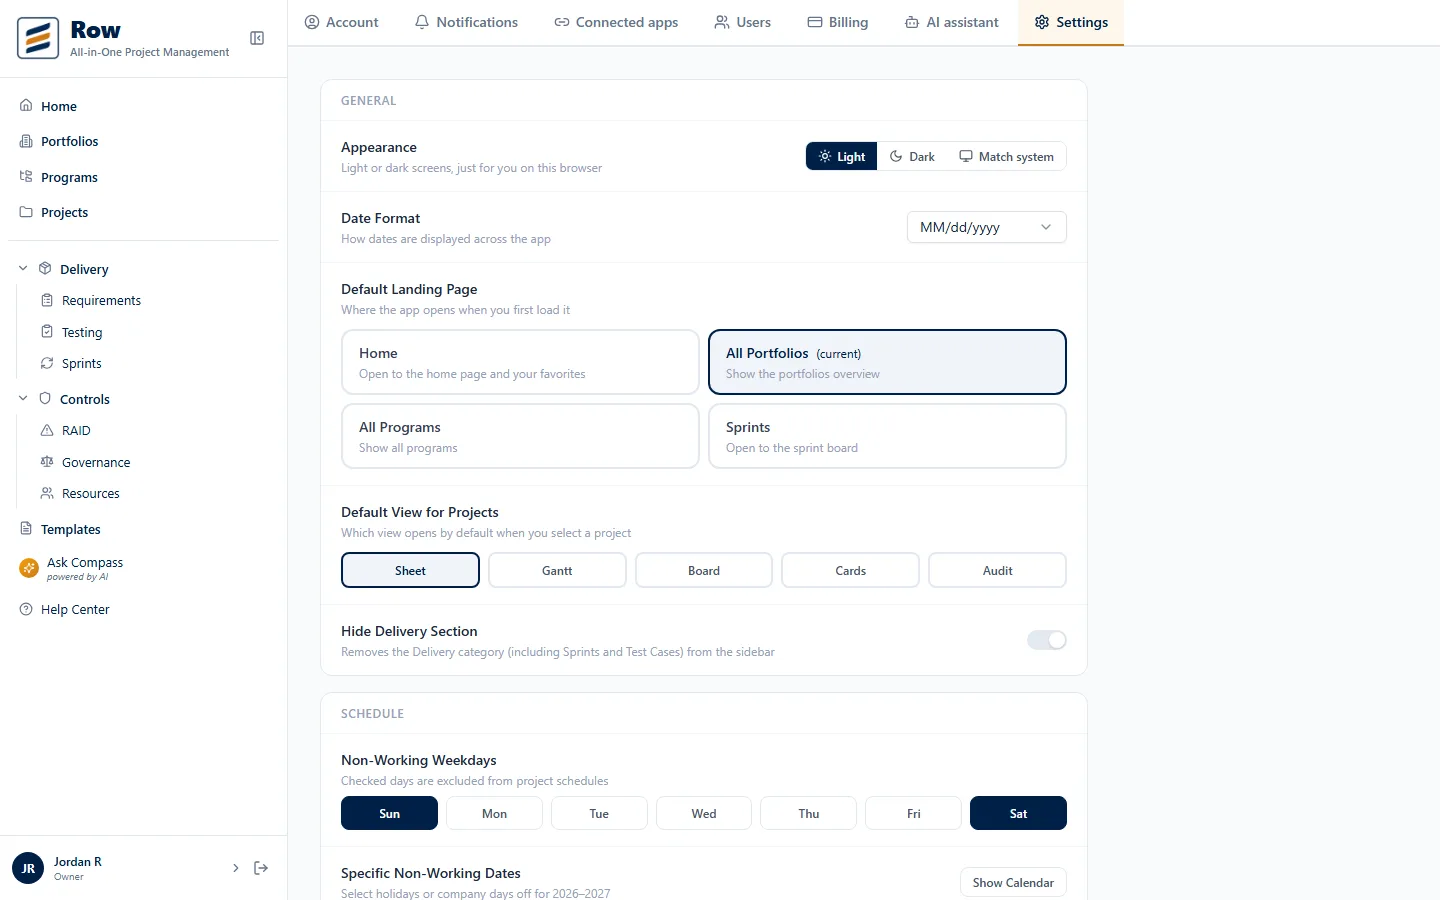
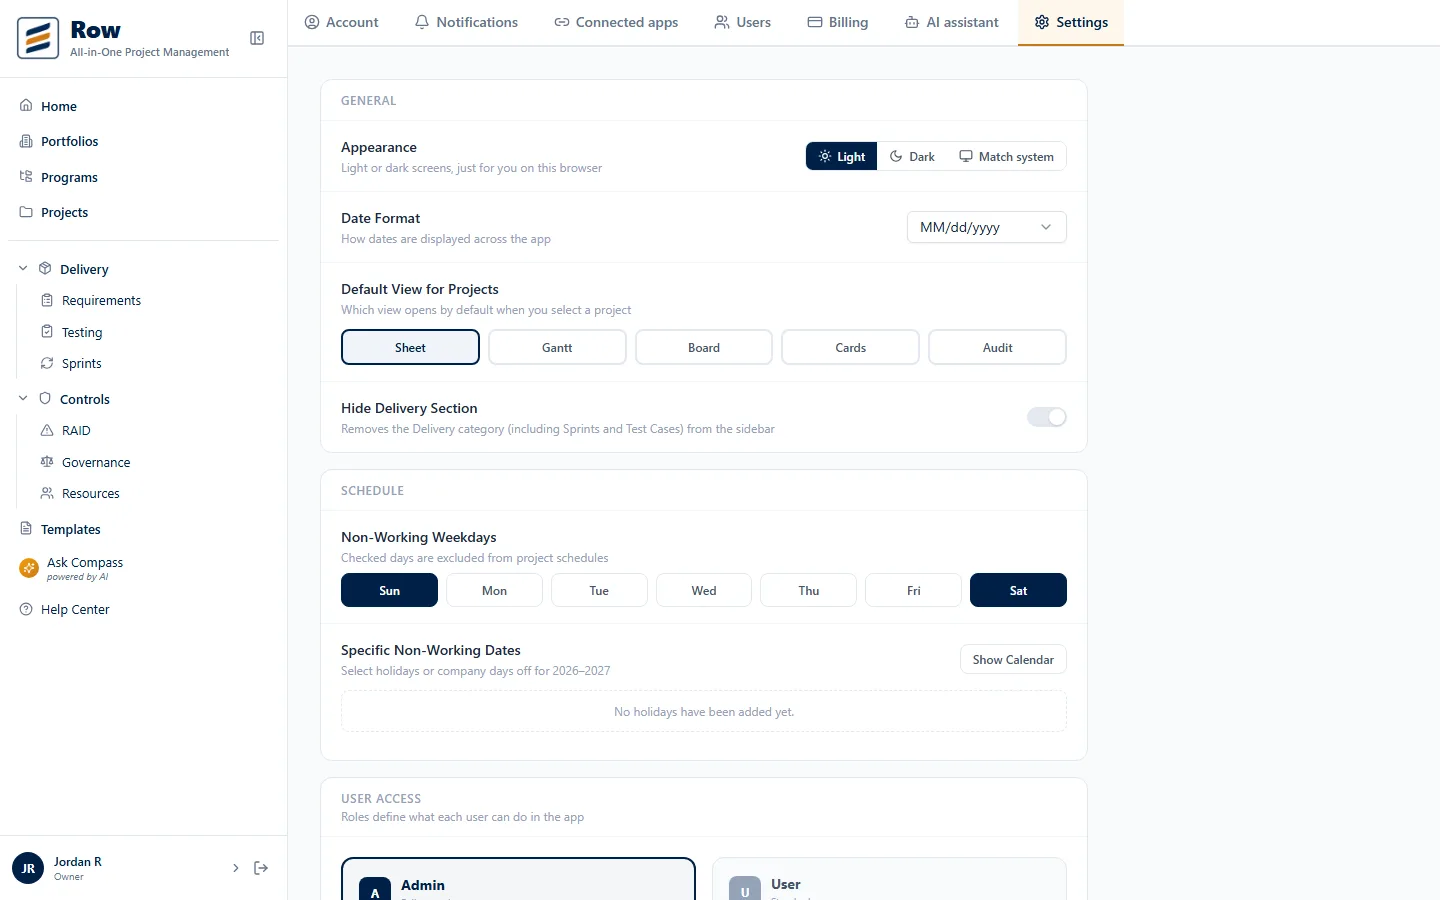
Updates

diff --git a/src/components/projects/SettingsContent.jsx b/src/components/projects/SettingsContent.jsx
@@ -12,13 +12,6 @@ import { X, Plus, ChevronDown, ChevronRight, AlertCircle, Loader2, Sun, Moon, Mo
 
 const DAYS = [{ v: 0, l: 'Sun' }, { v: 1, l: 'Mon' }, { v: 2, l: 'Tue' }, { v: 3, l: 'Wed' }, { v: 4, l: 'Thu' }, { v: 5, l: 'Fri' }, { v: 6, l: 'Sat' }];
 
-const LANDING_OPTIONS = [
-  { value: 'favorites', label: 'Home', description: 'Open to the home page and your favorites' },
-  { value: 'all_portfolios', label: 'All Portfolios', description: 'Show the portfolios overview' },
-  { value: 'all_programs', label: 'All Programs', description: 'Show all programs' },
-  { value: 'sprints', label: 'Sprints', description: 'Open to the sprint board' },
-];
-
 const DEFAULT_TASK_VIEW_OPTIONS = [
   { value: 'sheet', label: 'Sheet' },
   { value: 'gantt', label: 'Gantt' },
@@ -349,7 +342,6 @@ export default function SettingsContent() {
     try { return JSON.parse(localStorage.getItem('app_nonworking_days') || '[0,6]'); } catch { return [0, 6]; }
   });
   const [hideDelivery, setHideDelivery] = useState(localStorage.getItem('app_hide_delivery') === 'true');
-  const [landingPage, setLandingPage] = useState(localStorage.getItem('app_landing_page') || 'all_portfolios');
   const [defaultTaskView, setDefaultTaskView] = useState(localStorage.getItem('app_default_task_view') || 'sheet');
   const [mutationError, setMutationError] = useState('');
   const [holidayMutationError, setHolidayMutationError] = useState('');
@@ -400,7 +392,6 @@ export default function SettingsContent() {
   useEffect(() => {
     if (!accountSettings || Object.keys(accountSettings).length === 0) return;
     if (accountSettings.date_format !== undefined) setDateFormat(accountSettings.date_format);
-    if (accountSettings.default_landing_page !== undefined) setLandingPage(accountSettings.default_landing_page);
     if (accountSettings.hide_delivery_section !== undefined) setHideDelivery(Boolean(accountSettings.hide_delivery_section));
   }, [accountSettings]);
 
@@ -410,7 +401,6 @@ export default function SettingsContent() {
       setMutationError('');
       queryClient.invalidateQueries({ queryKey: ['account-settings', selectedAccountId] });
       if (updatedSettings.date_format !== undefined) localStorage.setItem('app_date_format', updatedSettings.date_format);
-      if (updatedSettings.default_landing_page !== undefined) localStorage.setItem('app_landing_page', updatedSettings.default_landing_page);
       if (updatedSettings.hide_delivery_section !== undefined) localStorage.setItem('app_hide_delivery', String(updatedSettings.hide_delivery_section));
     },
     onError: () => {
@@ -640,32 +630,6 @@ export default function SettingsContent() {
               <SelectItem value="D MMM YYYY">D MMM YYYY</SelectItem>
             </SelectContent>
           </Select>
-        </div>
-
-        {/* Default Landing Page */}
-        <div className="px-5 py-4">
-          <div className="flex items-center justify-between mb-3">
-            <div>
-              <p className="text-sm font-medium text-slate-800">Default Landing Page</p>
-              <p className="text-xs text-slate-400 mt-0.5">Where the app opens when you first load it</p>
-            </div>
-          </div>
-          <div className="grid grid-cols-2 gap-2">
-            {LANDING_OPTIONS.map(opt => (
-              <button key={opt.value} disabled={isSavingGeneralSettings} onClick={() => applyGeneralSetting({ default_landing_page: opt.value }, () => setLandingPage(opt.value))}
-                className={cn('flex flex-col items-start gap-0.5 px-4 py-3 rounded-xl border-2 text-left transition-all',
-                  landingPage === opt.value
-                    ? 'border-indigo-400 bg-indigo-50'
-                    : 'border-slate-200 bg-white hover:border-slate-300',
-                  isSavingGeneralSettings && 'opacity-60 cursor-not-allowed')}>
-                <span className={cn('text-sm font-medium', landingPage === opt.value ? 'text-indigo-700' : 'text-slate-700')}>
-                  {opt.label}
-                  {landingPage === opt.value && <span className="ml-2 text-xs font-normal text-indigo-400">(current)</span>}
-                </span>
-                <span className="text-xs text-slate-400">{opt.description}</span>
-              </button>
-            ))}
-          </div>
         </div>
 
         {/* Default Sheet View */}

diff --git a/src/api/settings.ts b/src/api/settings.ts
@@ -22,26 +22,12 @@ const addIfPresent = (target: ApiRecord, source: ApiRecord, key: string) => {
   if (hasOwn(source, key) && source[key] !== undefined) target[key] = source[key];
 };
 
-// The API stores the landing page as an enum; the UI uses its Projects view keys.
-const LANDING_PAGE_TO_UI: Record<string, string> = {
-  FAVORITES: 'favorites',
-  PORTFOLIOS: 'all_portfolios',
-  PROGRAMS: 'all_programs',
-  SPRINTS: 'sprints',
-};
-const LANDING_PAGE_TO_API: Record<string, string> = Object.fromEntries(
-  Object.entries(LANDING_PAGE_TO_UI).map(([apiValue, uiValue]) => [uiValue, apiValue]),
-);
-
 export const mapAccountSettings = (settings: ApiRecord = {}) => {
   const mapped: ApiRecord = {};
 
   addIfPresent(mapped, settings, 'id');
   addIfPresent(mapped, settings, 'account_id');
   addIfPresent(mapped, settings, 'date_format');
-  if (typeof settings.default_landing_page === 'string') {
-    mapped.default_landing_page = LANDING_PAGE_TO_UI[settings.default_landing_page.toUpperCase()] || 'all_portfolios';
-  }
   addIfPresent(mapped, settings, 'hide_delivery_section');
   addIfPresent(mapped, settings, 'timezone');
   addIfPresent(mapped, settings, 'week_start_day');
@@ -59,9 +45,6 @@ export const mapAccountSettingsPayload = (data: ApiRecord = {}) => {
   const payload: ApiRecord = {};
 
   addIfPresent(payload, data, 'date_format');
-  if (typeof data.default_landing_page === 'string') {
-    payload.default_landing_page = LANDING_PAGE_TO_API[data.default_landing_page] || data.default_landing_page.toUpperCase();
-  }
   addIfPresent(payload, data, 'hide_delivery_section');
   addIfPresent(payload, data, 'timezone');
   addIfPresent(payload, data, 'week_start_day');

diff --git a/src/pages/Projects.jsx b/src/pages/Projects.jsx
@@ -254,7 +254,8 @@ export default function Projects() {
   const hasValidProgramRoute = !programId || UUID_RE.test(programId);
   const hasValidProjectRoute = !projectId || UUID_RE.test(projectId);
   const activeProjectTab = PROJECT_TABS.includes(projectTab) ? projectTab : 'sheet';
-  const _defaultLanding = localStorage.getItem('app_landing_page') || 'all_portfolios';
+  // /Projects without ?view= shows the Portfolio Directory; the app itself always opens on Home.
+  const _defaultLanding = 'all_portfolios';
   const [selectedType, setSelectedType] = useState(_defaultLanding);
   const [selectedItem, setSelectedItem] = useState(_defaultLanding === 'sprints' ? { id: 'sprints', name: 'Sprints' } : null);
   const [taskImportOpen, setTaskImportOpen] = useState(false);
